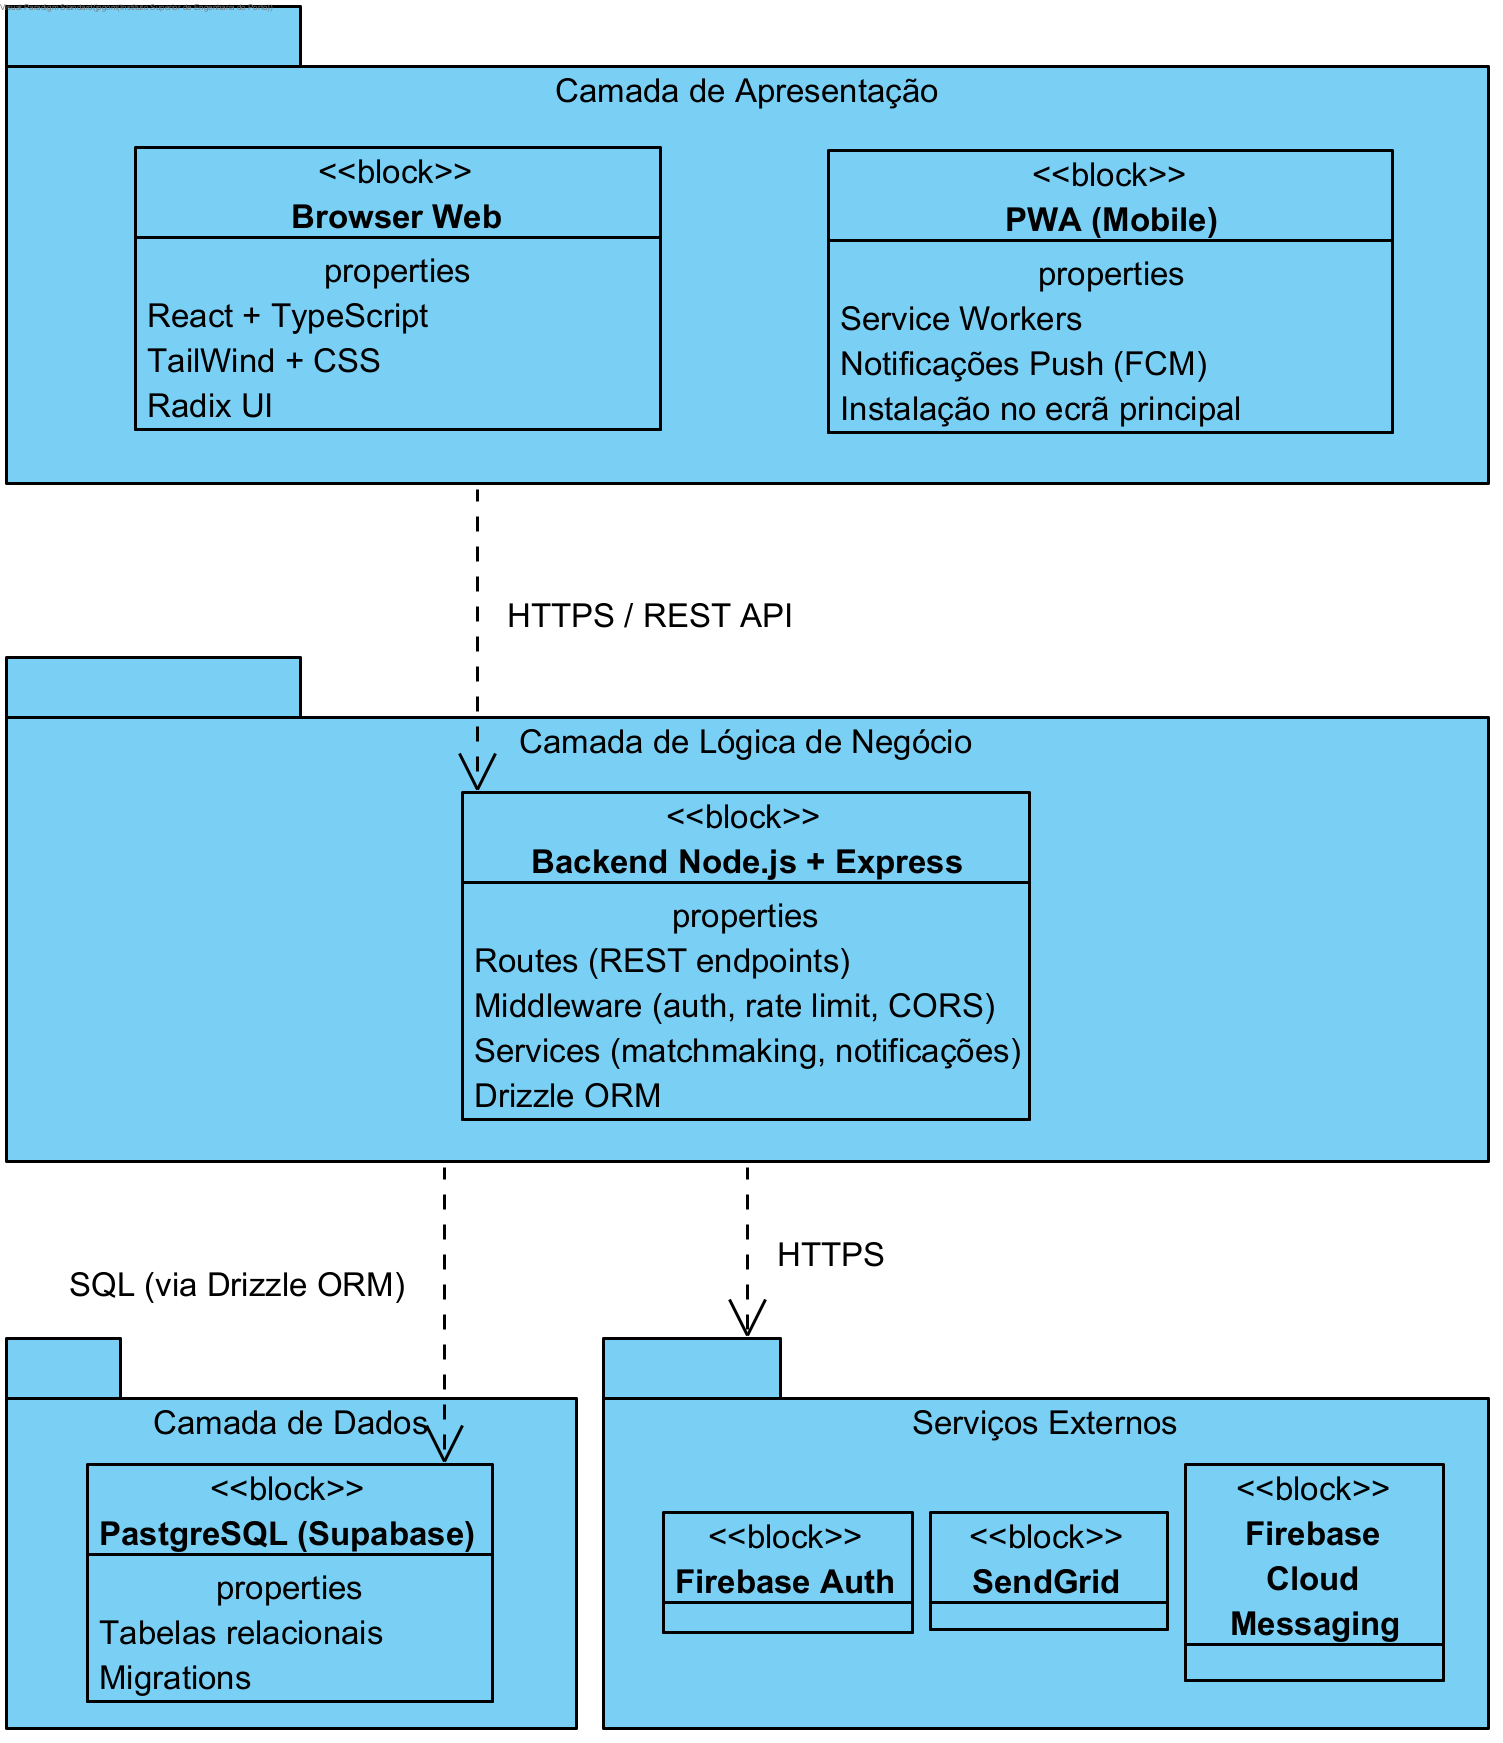
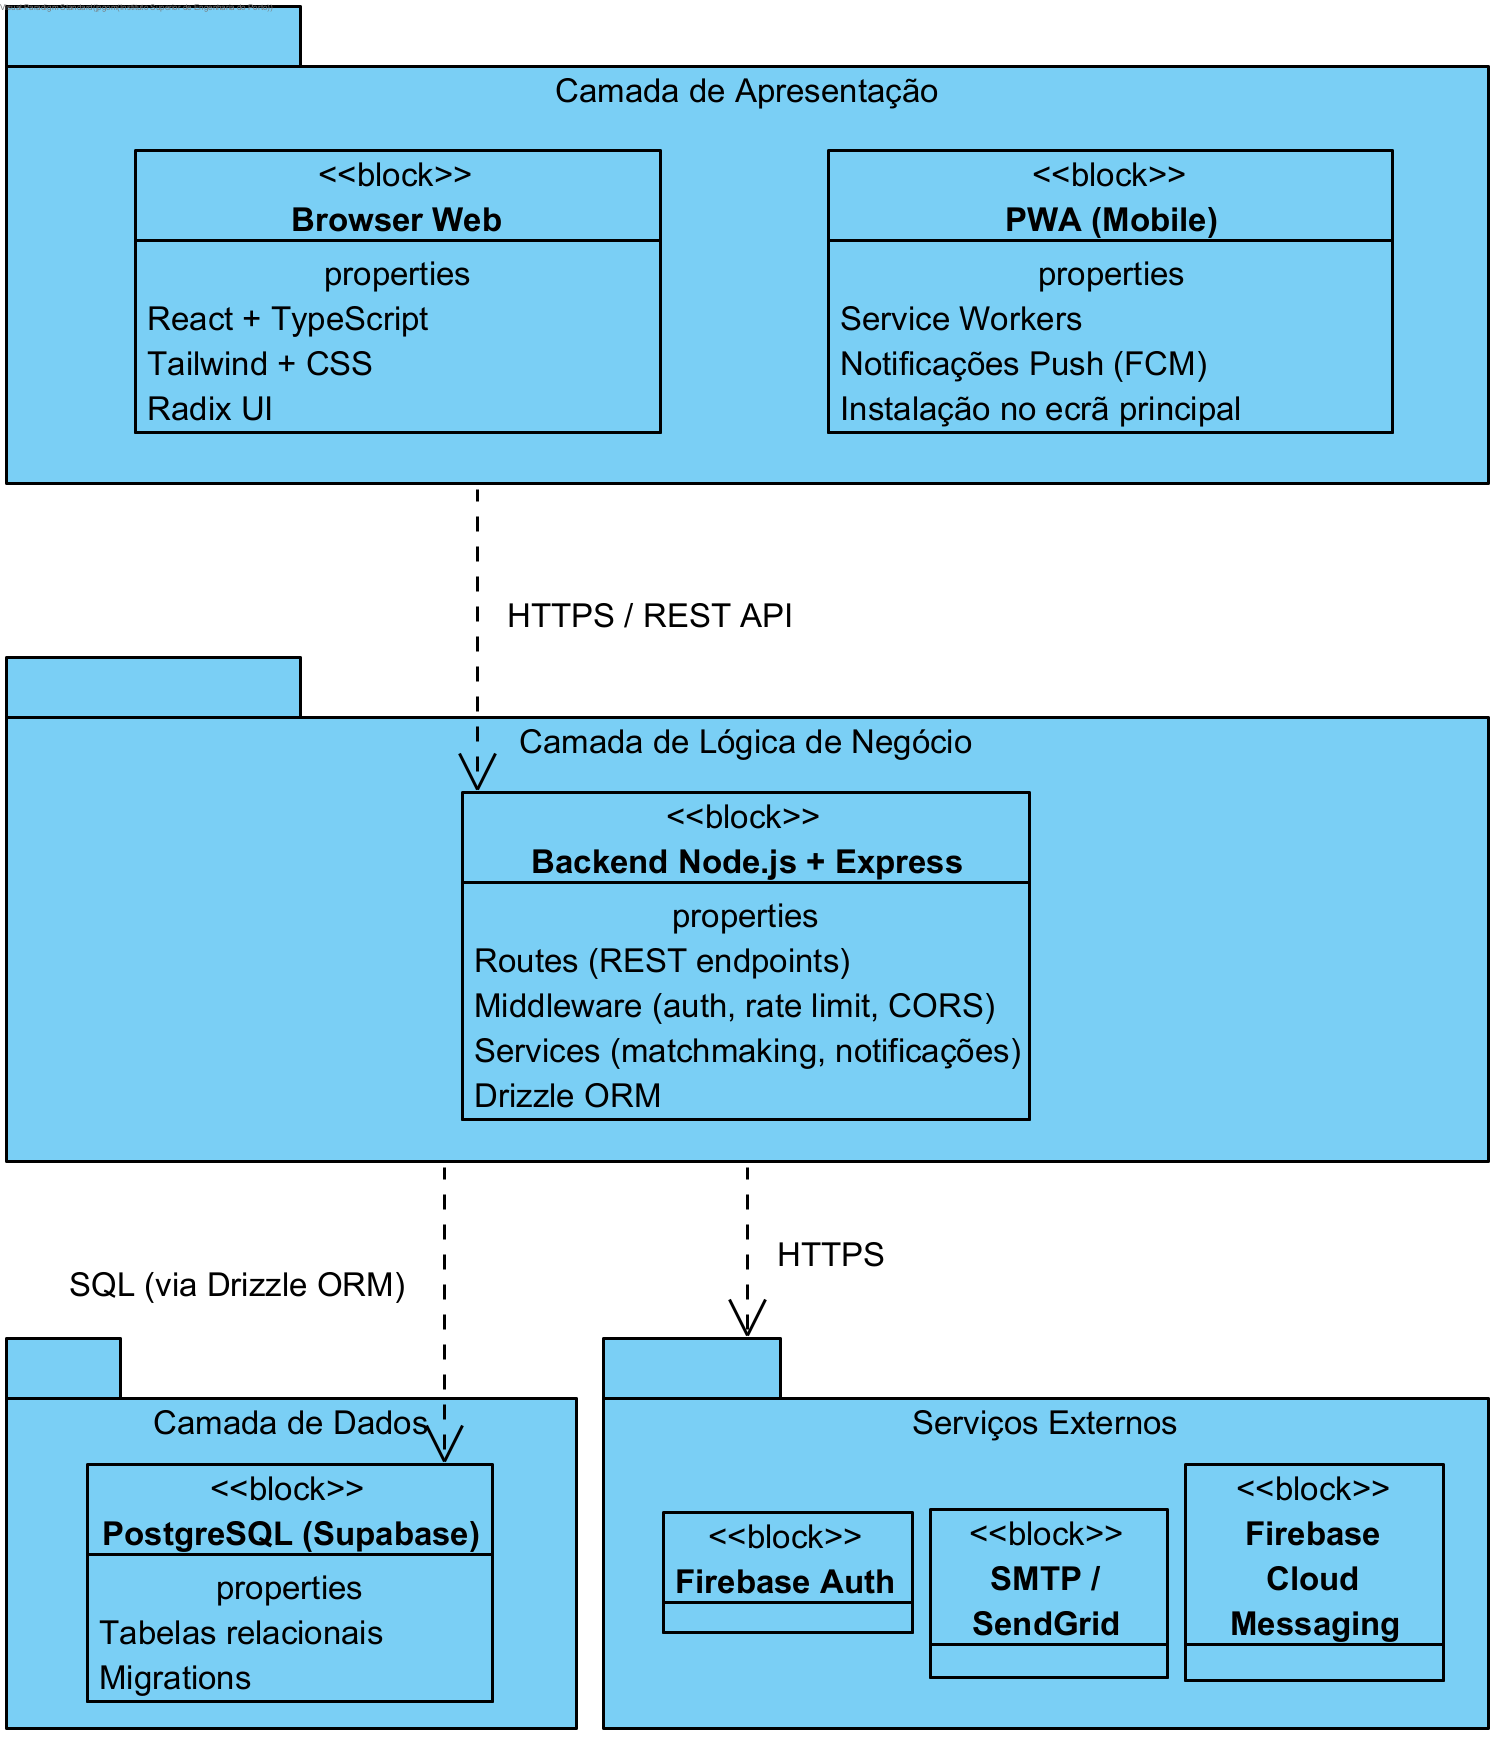
docs(SMTP): updated diagrams with SMTP

Changed region(s): [[0.0918, 0.062, 0.4285, 0.2478], [0.6121, 0.8675, 0.7651, 0.9604], [0.0612, 0.8675, 0.3367, 0.8985]]

diff --git a/Documentation/Diagramas/Fluxos/fluxo-email.md b/Documentation/Diagramas/Fluxos/fluxo-email.md
@@ -17,7 +17,7 @@ graph LR
     G5([Colaborador pede Viatura])
 
     %% 3. MOTOR
-    API{{Integração SendGrid}}
+    API{{Envio SMTP / SendGrid}}
 
     %% 4. TIPOS DE E-MAIL
     M1[1. Código OTP de Verificação]
